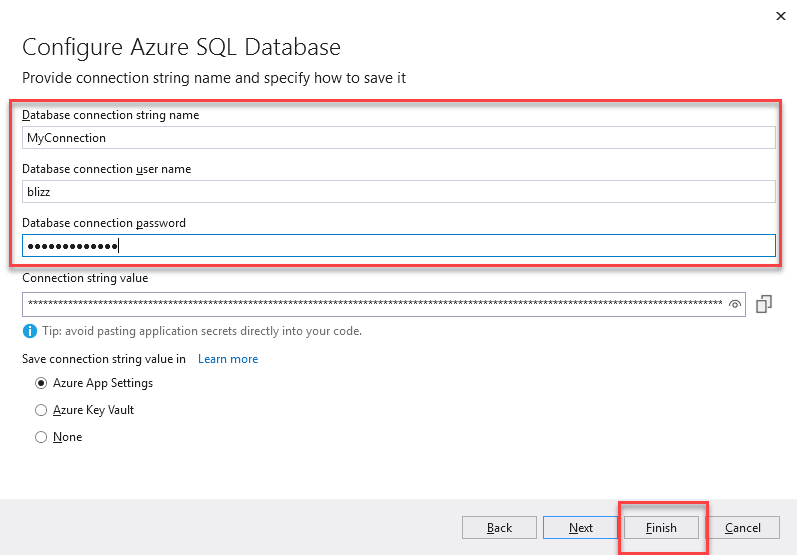
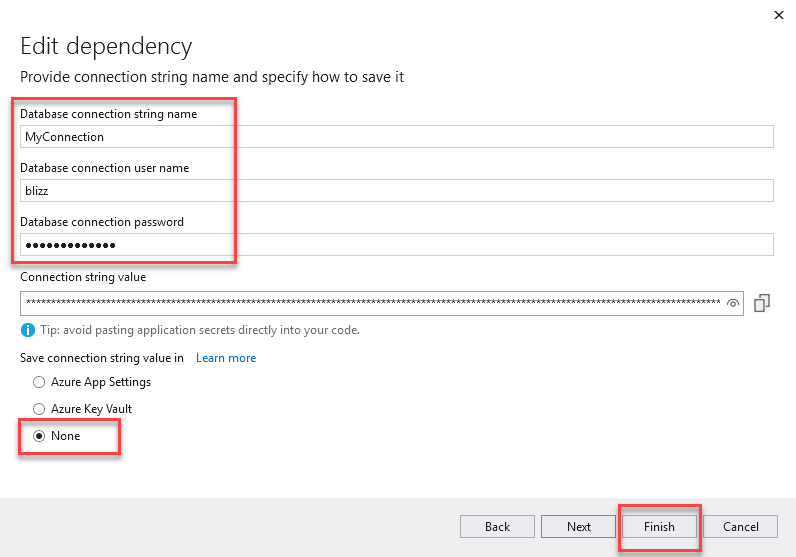
additional devops lab updates

Changed region(s): [[0.0, 0.0613, 0.995, 0.827], [0.5729, 0.8883, 0.995, 1.0]]

diff --git a/month2/labs/lab_devops/README.md b/month2/labs/lab_devops/README.md
@@ -124,9 +124,10 @@ It will take several minutes for the deployment to complete.
  
     ![](images/publishconfiguresql5.png)
 
-1. In the next step of the Configure Azure SQL Database dialog: 
+1. In the next step of the **Configure Azure SQL Database** wizard: 
     - (1) Enter the **Database connection string name**, **Database connection user name**, and **Database connection password** fields. These are the details your application will use to connect to the database at runtime. Best practice is to avoid using the same details as the admin username & password used in the previous step. 
-    - (2) Click **Finish** then click **Close**. 
+    - (2) Change the **Save connection string value in** setting to **None**.
+    - (3) Click **Finish** then click **Close**. 
  
         ![](images/publishconfiguresql6.png)
  
@@ -144,7 +145,24 @@ It will take several minutes for the deployment to complete.
 
         ![](images/publishsettingsdbconnection.png)
 
-1. In the **Publish - Deploy your app to a folder...** window in Visual Studio, click **Publish**
+1. We now need to update the **Database conection string** in the application's **web.config** file. 
+    - (1) In **Internet Explorer** go to your resource group in the **Azure Portal** 
+    - (2) Click on the **SQL database** name
+
+        ![](images/changeconnectionstring1.png)
+    
+    - (3) Click on **Connection strings** in the left navigation bar, then copy the entire **ADO.NET (SQL authentication)** connection string. 
+
+        ![](images/changeconnectionstring2.png)
+
+    - (4) In **Visual Studio** open the **Web.config** file and replace the existing value of the **connectionString** with the value you copied from the Azure Portal. 
+
+        ![](images/changeconnectionstring3.png)
+
+    - (5) Replace the **{your_password}** placeholder in the connection string with the password of the database user you created in the wizard above. 
+    - (6) **Save** the **Web.config** file then **close its tab** in the editor. 
+
+1. In the **Publish - Deploy your app to a folder...** tab in Visual Studio, click **Publish**
 
     ![](images/publishtoazure1.png)
 
